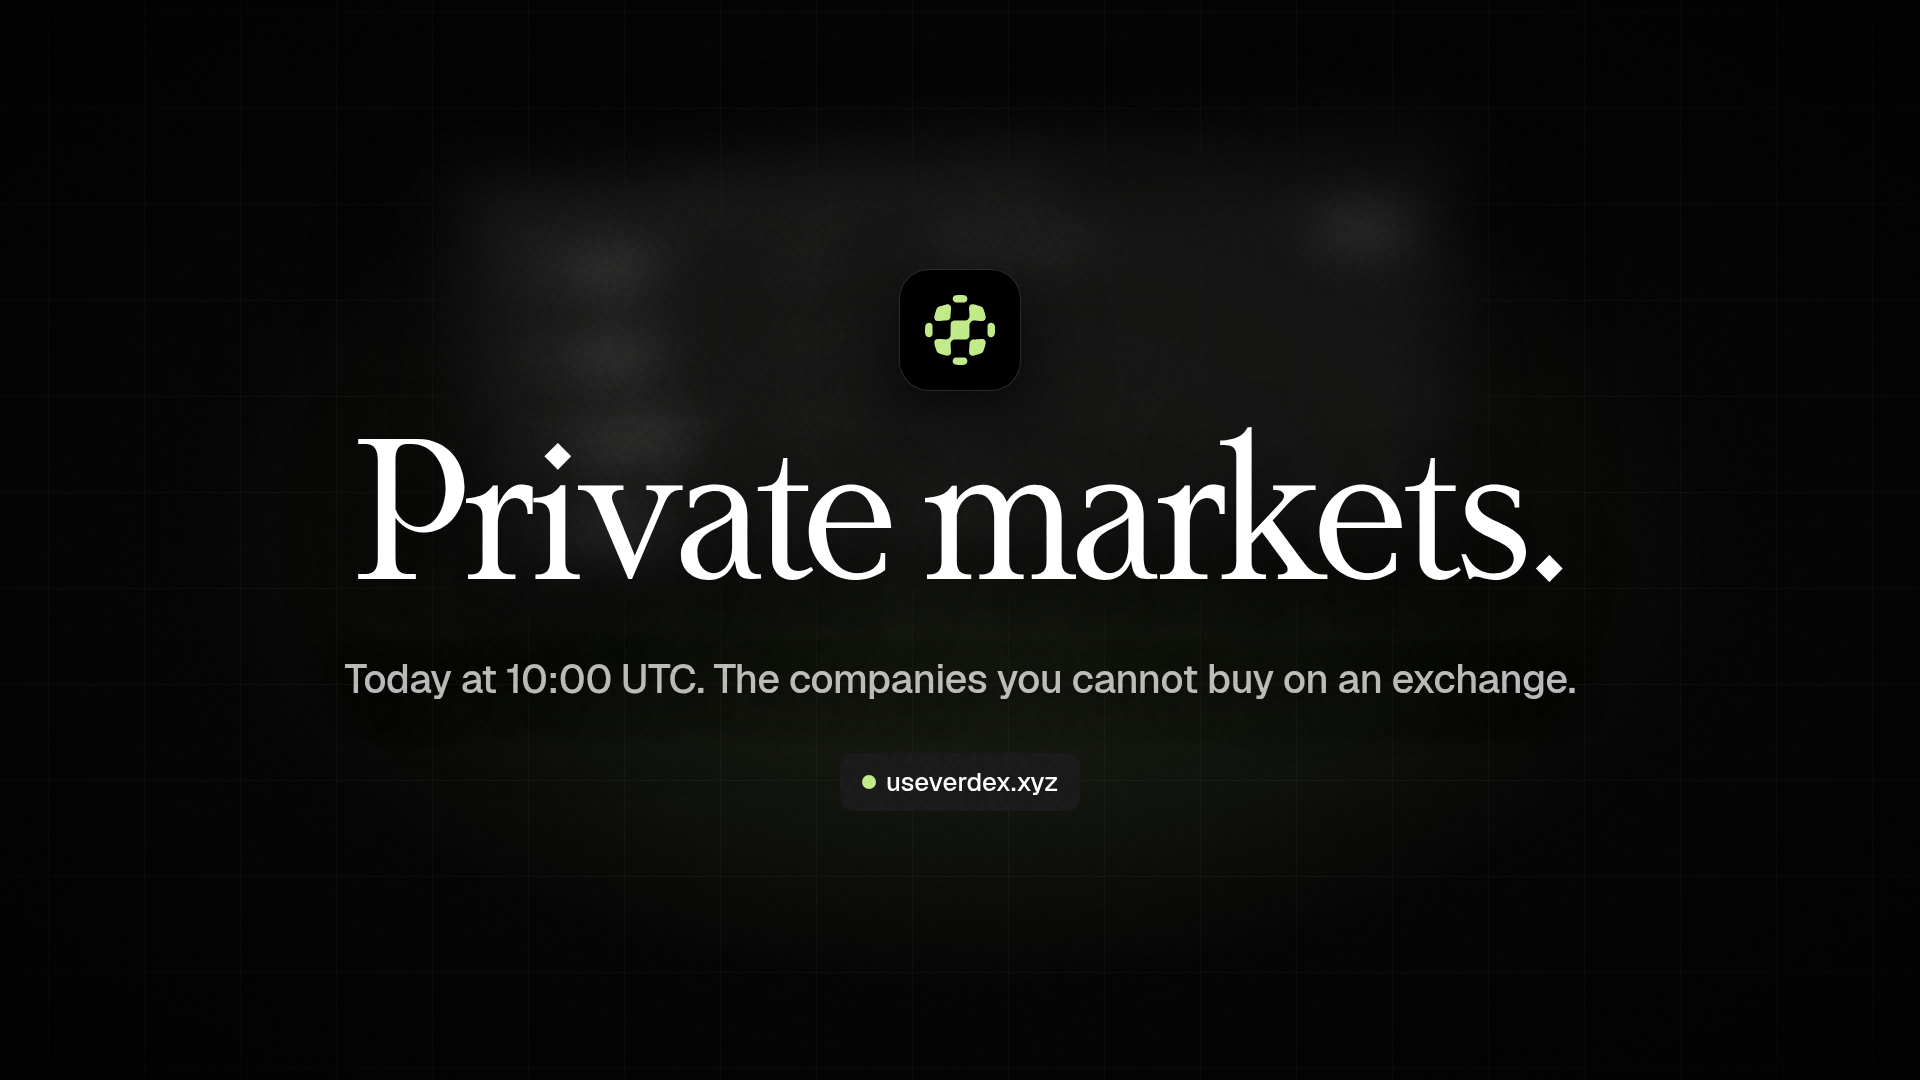
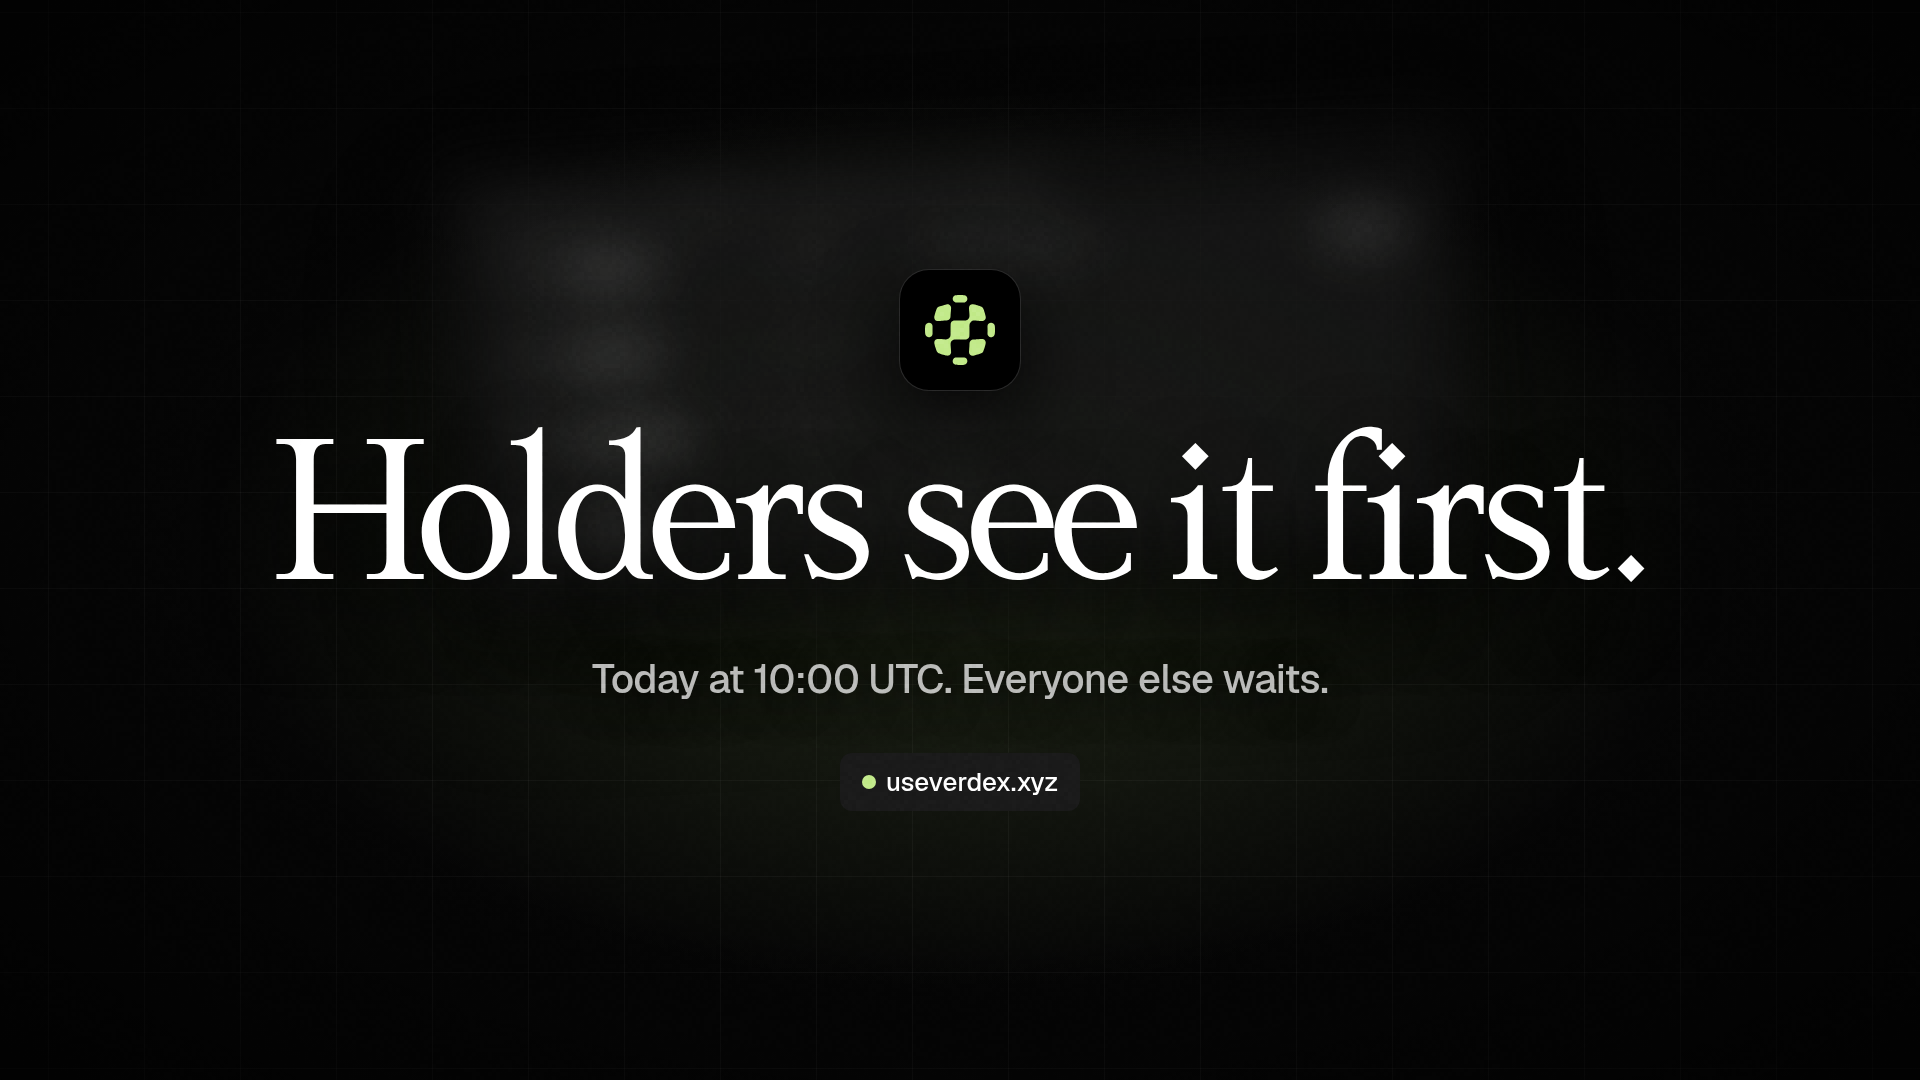
Hype still for the 10:00 UTC drop that names no feature

Changed region(s): [[0.125, 0.3972, 0.875, 0.55], [0.1875, 0.6111, 0.8125, 0.6417]]

diff --git a/promo/README.md b/promo/README.md
@@ -57,7 +57,7 @@ The feature lives at `/orders` (`src/pages/OrdersPage.tsx` on top of `src/lib/or
 
 `yield.html` is a 34-second film for Asset Yield: the name, the stats strip (Spark rate, Spark deposits, stock pools, the NVDA pool fee APR), the wallet table of what is idle, the stock composer with a band and an amount, the position turning from waiting to earning next to the Spark balance, and the end card at `useverdex.xyz/yield`. Render with `node promo/render.mjs --page promo/yield.html --out promo/verdex-yield.mp4`. The hype still is `photos/hype-yield.png` (`teaser.html?bg=yield&line=Idle%20is%20over.&sub=…`, the title now centred).
 
-`private.html` is a 34-second film for Private Markets: the name, the stats strip (private companies, liquidity, 24h volume, holders), the table of seven companies rising row by row with the fee column, the Anthropic panel with everything the mint says and Trade opening Jupiter, the mint check catching a replaced OpenAI mint, and the end card at `useverdex.xyz/private-markets`. Render with `node promo/render.mjs --page promo/private.html --out promo/verdex-private.mp4`. The hype still is `photos/hype-private.png` (`teaser.html?bg=private&line=Private%20markets.&sub=…`). Company logos come from `public/logos/private/`.
+`private.html` is a 34-second film for Private Markets: the name, the stats strip (private companies, liquidity, 24h volume, holders), the table of seven companies rising row by row with the fee column, the Anthropic panel with everything the mint says and Trade opening Jupiter, the mint check catching a replaced OpenAI mint, and the end card at `useverdex.xyz/private-markets`. Render with `node promo/render.mjs --page promo/private.html --out promo/verdex-private.mp4`. The hype still is `photos/hype-private.png` (`teaser.html?bg=private&line=Holders%20see%20it%20first.&sub=…`), which names no feature so the drop stays a surprise until the gate opens. Company logos come from `public/logos/private/`.
 
 `clips18.html` holds four 12-second clips for the days after the Private Markets drop (`?clip=fee`, `mintcheck`, `gone`, `thirteen`): the transfer fee read from each mint with the scheduled change, the mint check catching a replaced OpenAI mint, the two companies that left (SpaceX listed, xAI's conversion closed), and the roadmap at twelve of thirteen. Render each with `node promo/render.mjs --page "promo/clips18.html?clip=fee" --fps 30 --out promo/clip-fee.mp4`.
 

diff --git a/promo/tweets.md b/promo/tweets.md
@@ -297,21 +297,21 @@ Recorded on the real site with a mock wallet. Regenerate with `node promo/howto.
 
 Every number comes from Jupiter and from the mint on Solana, read in the browser. PreStocks is the issuer and is named as such, never as a partner. Say "exposure" or "pre-IPO token", never "shares". Never promise a listing, a conversion or a price. The transfer fee is the mint's, not ours, and it changes: say what the page shows.
 
-### Hype (image: `photos/hype-private.png`)
+### Hype (image: `photos/hype-private.png`, says nothing about what it is)
 
-> Anthropic, OpenAI, Anduril, Neuralink.
+The still and the tweet name no feature. The gate on the page opens to holders above the threshold first and to everyone at 10:00 UTC, so the hype is the holding itself. Never say what drops.
+
+> 10:00 UTC.
 >
-> You cannot buy them on an exchange.
+> We are not saying what it is. Holders above the threshold are already looking at it. Everyone else gets a countdown.
 >
-> Today at 10:00 UTC, Verdex shows the companies that trade before they list.
->
-> Priced in real time. Nothing to sign up for.
+> If you are holding, you will not have to wait.
 >
 > useverdex.xyz
 
 > One hour.
 >
-> Seven companies you have only ever read about. One table. 10:00 UTC.
+> Still not saying. The ones who held already know.
 
 ### Launch tweet (post with `verdex-private.mp4` at 10:00 UTC, then pin it)
 
